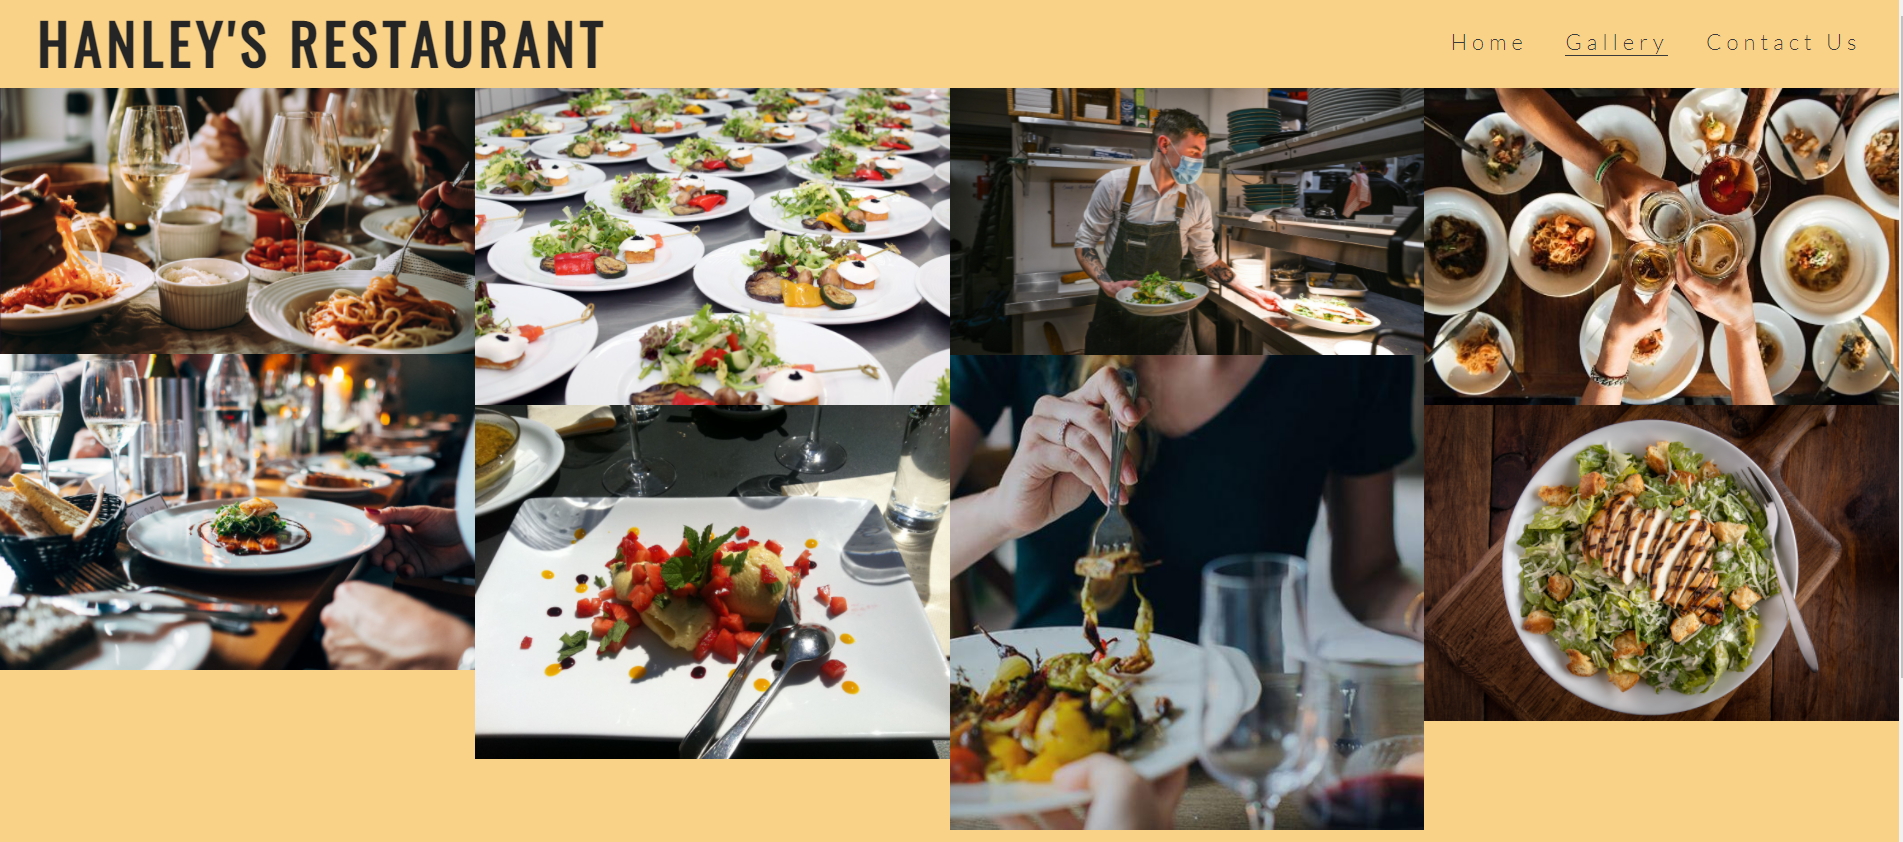
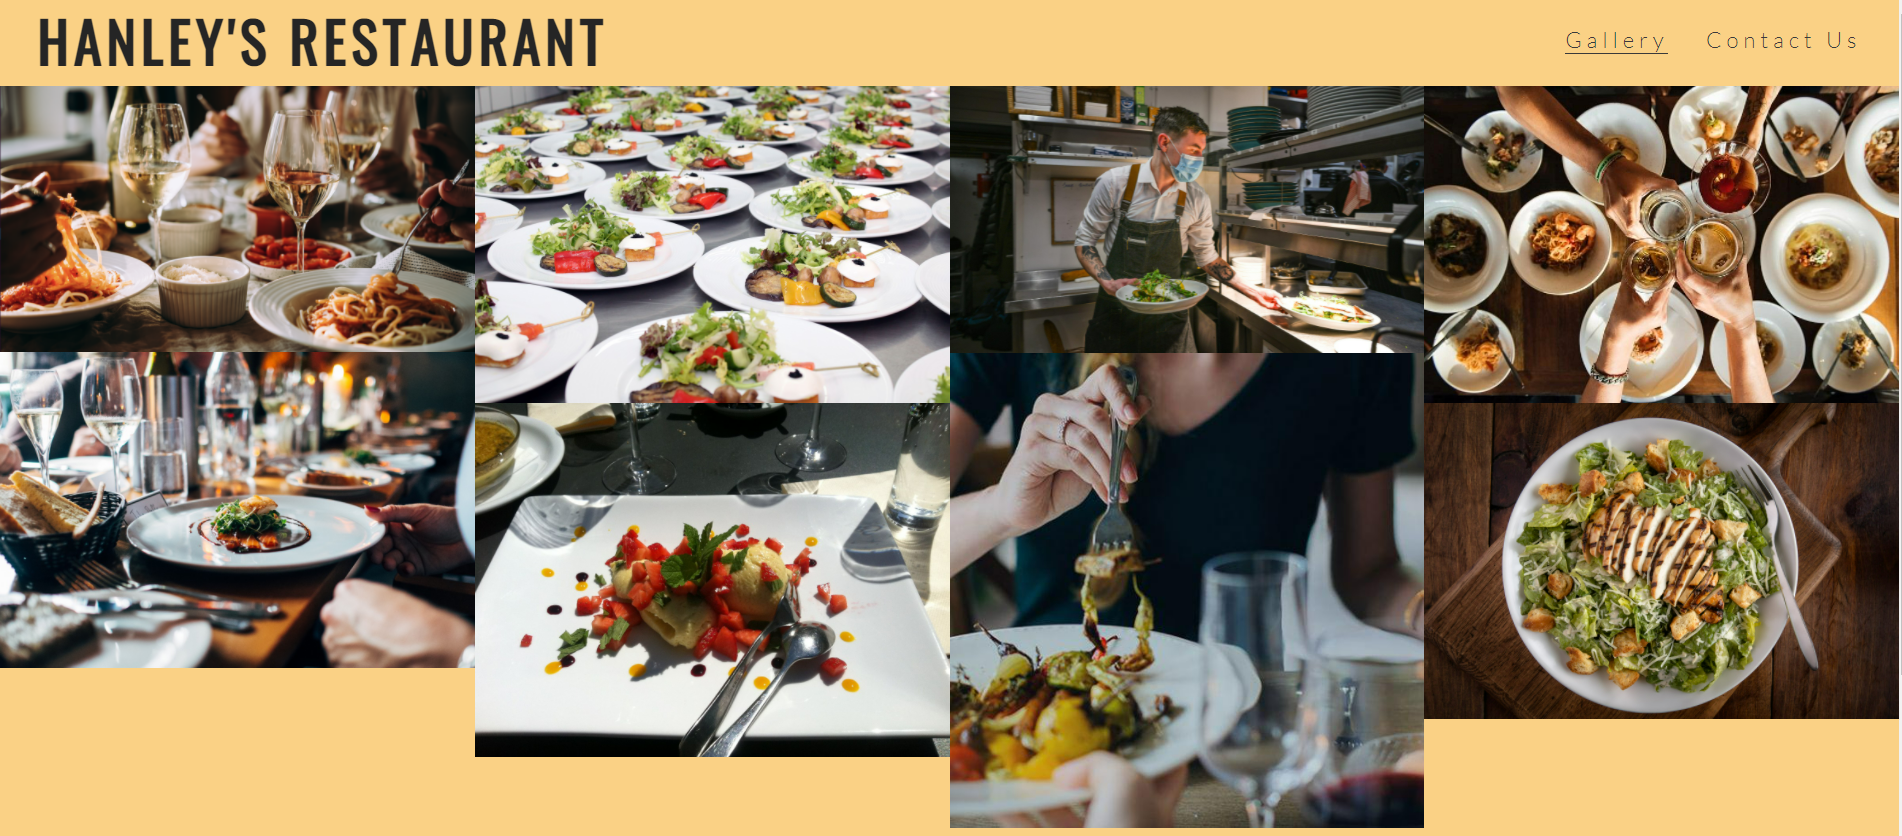
fixed errors

diff --git a/Menu.html b/Menu.html
@@ -18,20 +18,21 @@
 </header>
 <div id="Menu-food"><!--write menu food here-->
             <h1 class="food">Menu<i class="fas fa-utensils"></i></h1>
+            <h2>3 Course Meal €40 </h2>
             <hr>
-            <h4 class="menu-space">Appetizer</h4>
-            <p>Oysters and Pearls</p>
-            <p>Sabayon of pearl tapioca with island greek oysters</p>
-            <p>White Sturgeon Caviar</p>
-            <h4 class="menu-space">First Course</h4>
-            <p>Chantenay Carrot Tofu</p>
-            <p>Hawaiian Heart of Peach Pea  and  Lime</p>
-            <h4 class="menu-space">Main Course</h4>
-            <p>Slow Cook Fillet Of Pacific Yellowtail</p>
-            <p>Compress Cucumbers, Avocado Mousse, And Garden Celery</p>
+            <h4 class="menu-space">Starter</h4>
+            <p>Homemade Soup of the Day</p>
+            <p>Buffalo Chicken Wings</p>
+            <p>Grilled Chicken Caesar Salad</p>
+            <h4 class="menu-space">Mains</h4>
+            <p>28 Day Aged 10oz Sirlion</p>
+            <p>Chicken Supreme</p>
+            <p>Fresh Fish & Chips</p>
+            <p>Vegetable Stir Fry</p>
             <h4 class="menu-space">Dessert</h4>
             <p>Chocolate Soufflet</p>
             <p>Strawberry and Vanilla Sorbet</p>
+            <p>Warm Sticky Toffee Pudding</p>
 </div>
 <!--write the fontawesome here-->
 <script src="https://kit.fontawesome.com/cd69cc6988.js" crossorigin="anonymous"></script>

diff --git a/assets/css/style.css b/assets/css/style.css
@@ -310,13 +310,16 @@ fieldset {
 }
 @media only screen and (min-width: 320px)  and (max-width: 480px){
 #logo{
-    font-size: 30px;
+    font-size: 20px;
 }
 #menu{
     width: 100%;
     display: grid;
     position: relative;
     padding: revert;
+}
+#menu,#logo{
+    line-height: 40px;
 }
 #hero-image{
     height: 200px;
@@ -483,35 +486,35 @@ fieldset {
 }
 @media only screen and (min-width: 280px) and (max-width: 319px){
 #logo{
-        font-size: 20px;
-        margin-left: 10px;
-    }
-    #menu{
-        display: inline-grid;
-        margin-left: 10px;
-    }
-    #hero-image{
-        height: 200px;
-        width: 80%;
-        margin-left: 28px;
-    }
-    #hero-outer{
-        height: 200px;
-    }
-    #table-image{
-        height: 200px;
-        width: 90%;
-    }
-    .position{
-        margin: 0 auto;
-        font-size: 20px;
-    }
-    .container{
-        width: 100%;
+    font-size: 20px;
+    margin-left: 10px;
+}
+#menu{
+    display: inline-grid;
+    margin-left: 10px;
+}
+#hero-image{
+    height: 200px;
+    width: 80%;
+    margin-left: 28px;
+}
+#hero-outer{
+    height: 200px;
+}
+#table-image{
+    height: 200px;
+    width: 90%;
+}
+.position{
+    margin: 0 auto;
+    font-size: 20px;
+}
+.container{
+    width: 100%;
     margin-left: 36px;
-    }
-    .openinghours{
-        font-size: 13px;
-        margin-left: 38px;
-    }
+}
+.openinghours{
+    font-size: 13px;
+    margin-left: 38px;
+}
 }

diff --git a/Contact.html b/Contact.html
@@ -20,7 +20,6 @@
     <ul id="menu">
     <li><a href="Contact.html" class="active">Contact Us</a></li>
     <li><a href="gallery.html" >Gallery</a></li>
-    <li> <a href="index.html" >Home</a></li>
     </ul>
     </nav>
 </header> 
@@ -42,7 +41,7 @@
         <textarea placeholder="Type your Message Here...." tabindex="5" required></textarea>
         </fieldset>
         <fieldset>
-        <button name="submit" type="submit" id="contact-submit" data-submit="...Sending">Submit</button>
+        <button type="submit" id="contact-submit" value="submit">Submit</button>
         </fieldset>
         </form>
     </div>

diff --git a/index.html b/index.html
@@ -20,7 +20,6 @@
         <ul id="menu">
         <li><a href="Contact.html" >Contact Us</a></li><!--give the contact page-->
         <li><a href="gallery.html" >Gallery</a></li><!--give the gallery page-->
-        <li> <a href="index.html" class="active">Home</a></li><!--give the home page-->
         </ul>
     </nav>
     </header>

diff --git a/gallery.html b/gallery.html
@@ -19,7 +19,6 @@
     <ul id="menu">
     <li><a href="Contact.html" >Contact Us</a></li>
     <li><a href="gallery.html" class="active">Gallery</a></li>
-    <li> <a href="index.html" >Home</a></li>
     </ul>
     </nav>
 </header>

diff --git a/README.md b/README.md
@@ -98,11 +98,11 @@ The footer has been located at the bottom of every page and exists out of social
 - When submitting the contact us form by pressing the submit button it brings you to another page and error 501 comes up on the screen.
 
 # Deployment
-## Publishing
 'GitHub Pages' was used for publishing the website. The procedure was as follows:
 
- 1. Login to the [GitHub](https://github.com/) website.
-2. On the left side of your screen, you can find a summary of all your repositories. [Here is mine.](https://github.com/Ion71229/Milestone-1) 
+# Publising 
+1. Login to the [GitHub](https://github.com/) website.
+2. On the left side of your screen, you can find a summary of all your repositories. [Here is mine.](https://github.com/Ion71229/Milestone-1)
 3. You can find a ribbon on the top of your screen. In the ribbon, click on 'Settings'.
 4.  In the selection menu on the left side of your screen, click on 'Pages'.
 5. Beneath 'Source' you will find a small pull-down menu. 
@@ -110,7 +110,19 @@ The footer has been located at the bottom of every page and exists out of social
 7. You will get automatically redirected to the 'GitHub Pages' page. There you will see a blue text box telling the site will be published.
 8. Refresh the page after a minute and when this text box turns green, the website has been published.
 9. Click the link in the green text box to go to your published website.
-<img src="assets/images/Capture Publish Page.PNG">
+
+# Forking
+- You can contribute to this project without affecting the main branch with the following steps:
+1. Navigate to github repositores select this [repository](https://docs.github.com/en/get-started/quickstart/fork-a-repo)
+2. On the right of the repository name you will find the fork button next to star and watch buttons.
+3. Pressing said button will create a copy for you to use.
+
+# Cloning
+- You can clone this repository to local device with the following steps:
+1. Navigate to github repositores select this [repository](https://github.com/Ion71229/Milestone-1/)
+2. Under the repository name there is a green clone or download button.
+
+- The live link can be found here- [Hanley's Restaurant](https://ion71229.github.io/Milestone-1/)
 
 # Credits
 I used the following websites for my project.
